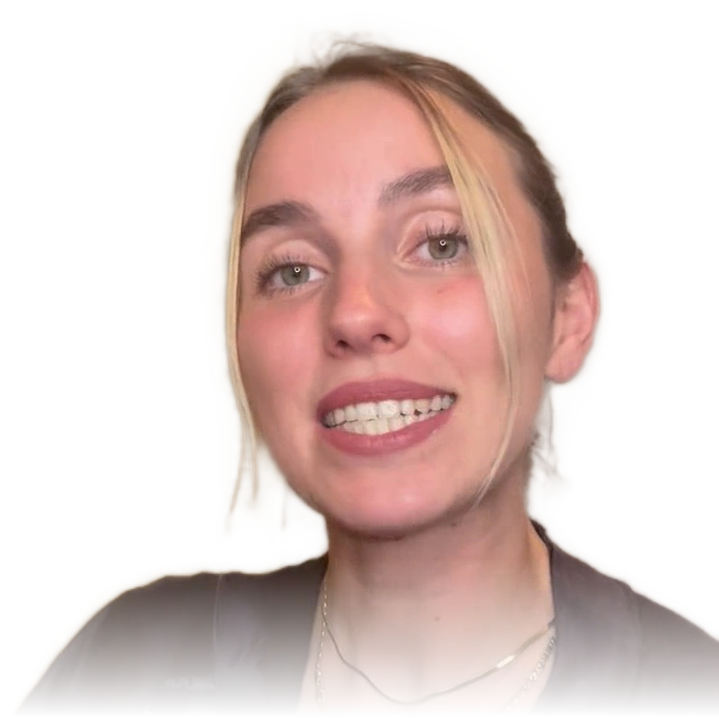
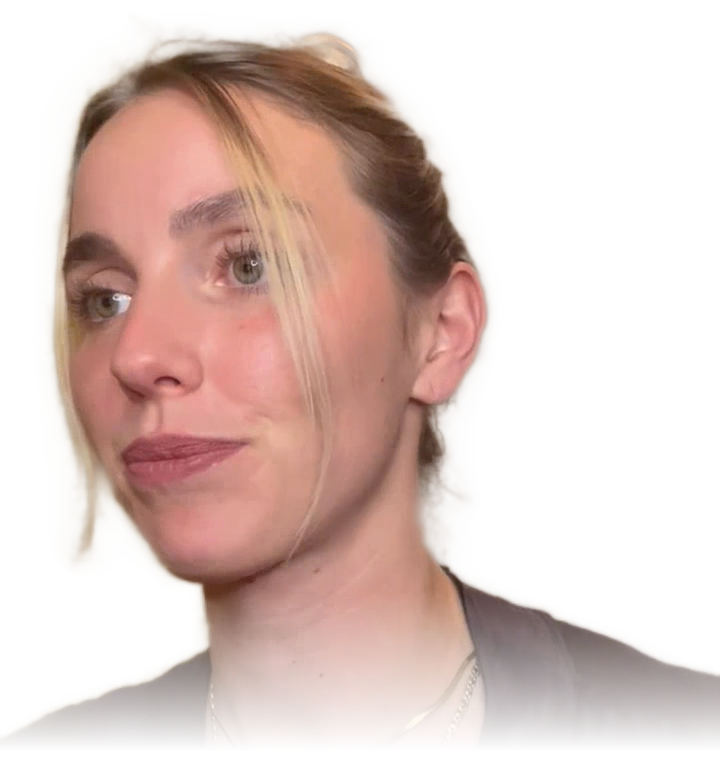
Karussell Tag 2: Cover mit Blick zur Checkliste
Claude-Session: https://claude.ai/code/session_01L6YvoYvajkrDmdsduXr3VN

diff --git a/carousels/tag02/carousel.html b/carousels/tag02/carousel.html
@@ -47,8 +47,8 @@ p.body{font-weight:400;font-size:40px;line-height:1.38;color:#3a3733}
    <h1 style="font-size:150px;margin-bottom:34px">Fragen,</h1></div>
   <h2 style="margin-top:6px;font-size:76px">bevor du nochmal Geld<br><span class="grey">in einen Kurs steckst.</span></h2>
  </div>
- <img src="marina_sticker.png" style="position:absolute;right:-40px;bottom:-10px;width:560px;transform:rotate(4deg);filter:drop-shadow(0 18px 30px rgba(20,16,12,.25))">
- <div style="position:absolute;left:70px;top:820px;width:560px;transform:rotate(-3.5deg)">
+ <img src="marina_sticker.png" style="position:absolute;right:-110px;bottom:-10px;width:520px;transform:rotate(3deg);filter:drop-shadow(0 18px 30px rgba(20,16,12,.25))">
+ <div style="position:absolute;left:60px;top:820px;width:540px;transform:rotate(-3.5deg)">
   <div class="card" style="box-shadow:0 22px 44px rgba(20,16,12,.28)"><div class="t"><span>VOR DEM NÄCHSTEN KURS</span><b>0 / 3</b></div>
    <div class="row"><span class="ck"></span><span class="ph" style="width:330px"></span></div>
    <div class="row"><span class="ck"></span><span class="ph" style="width:270px"></span></div>
